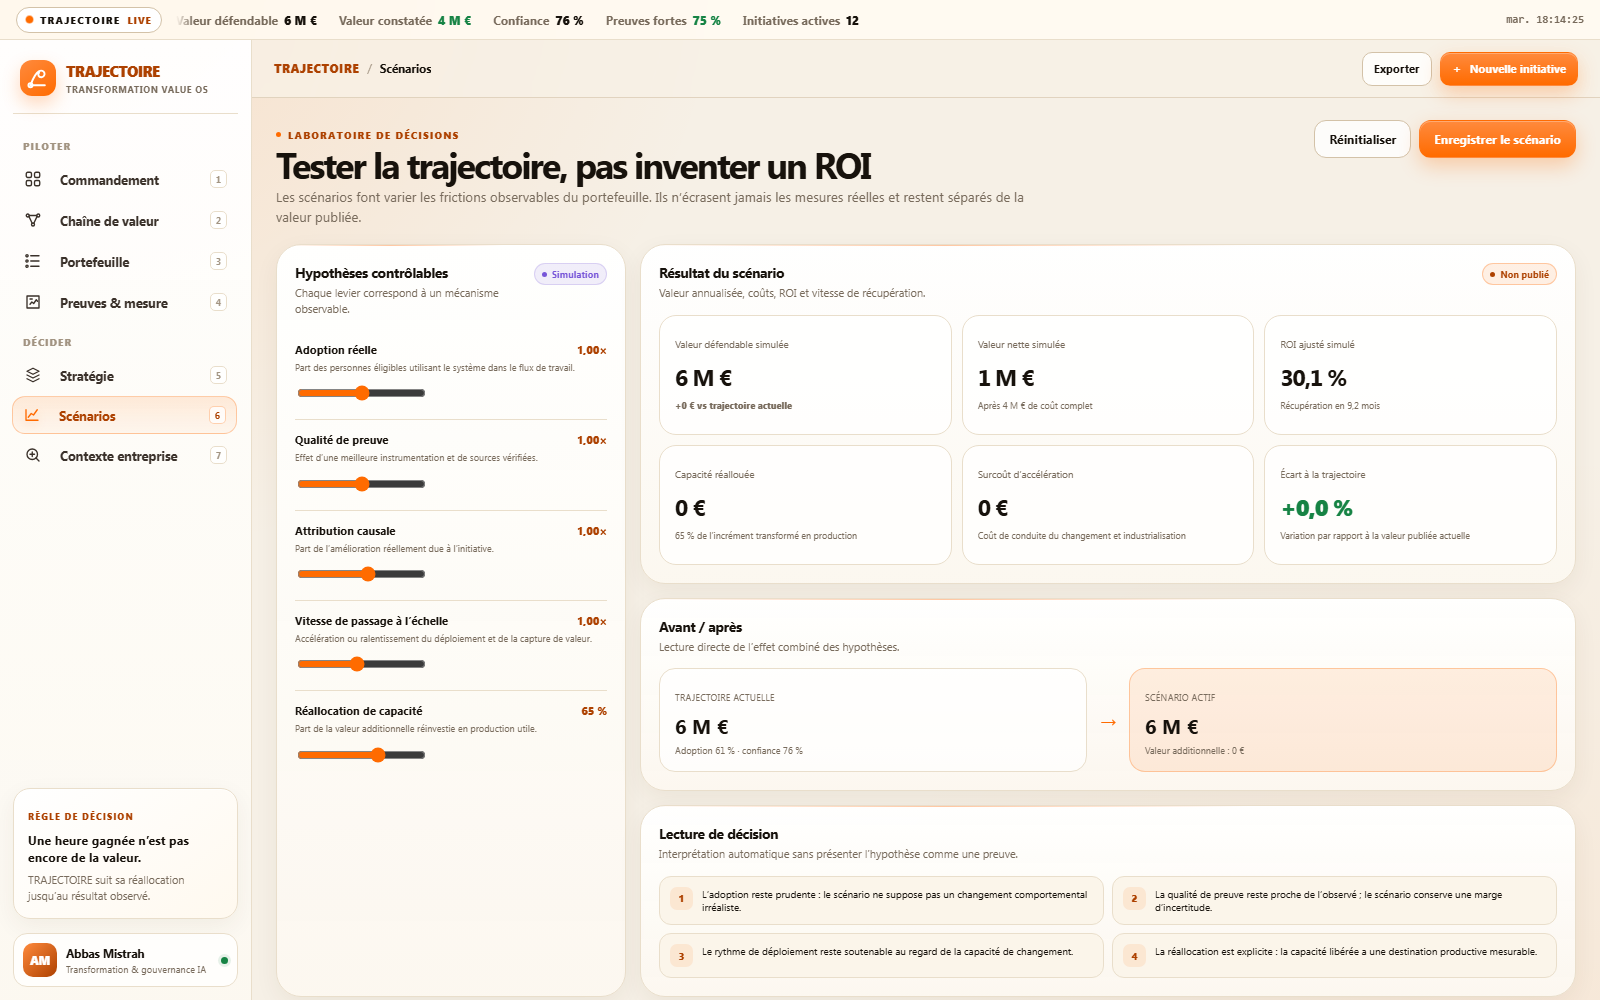
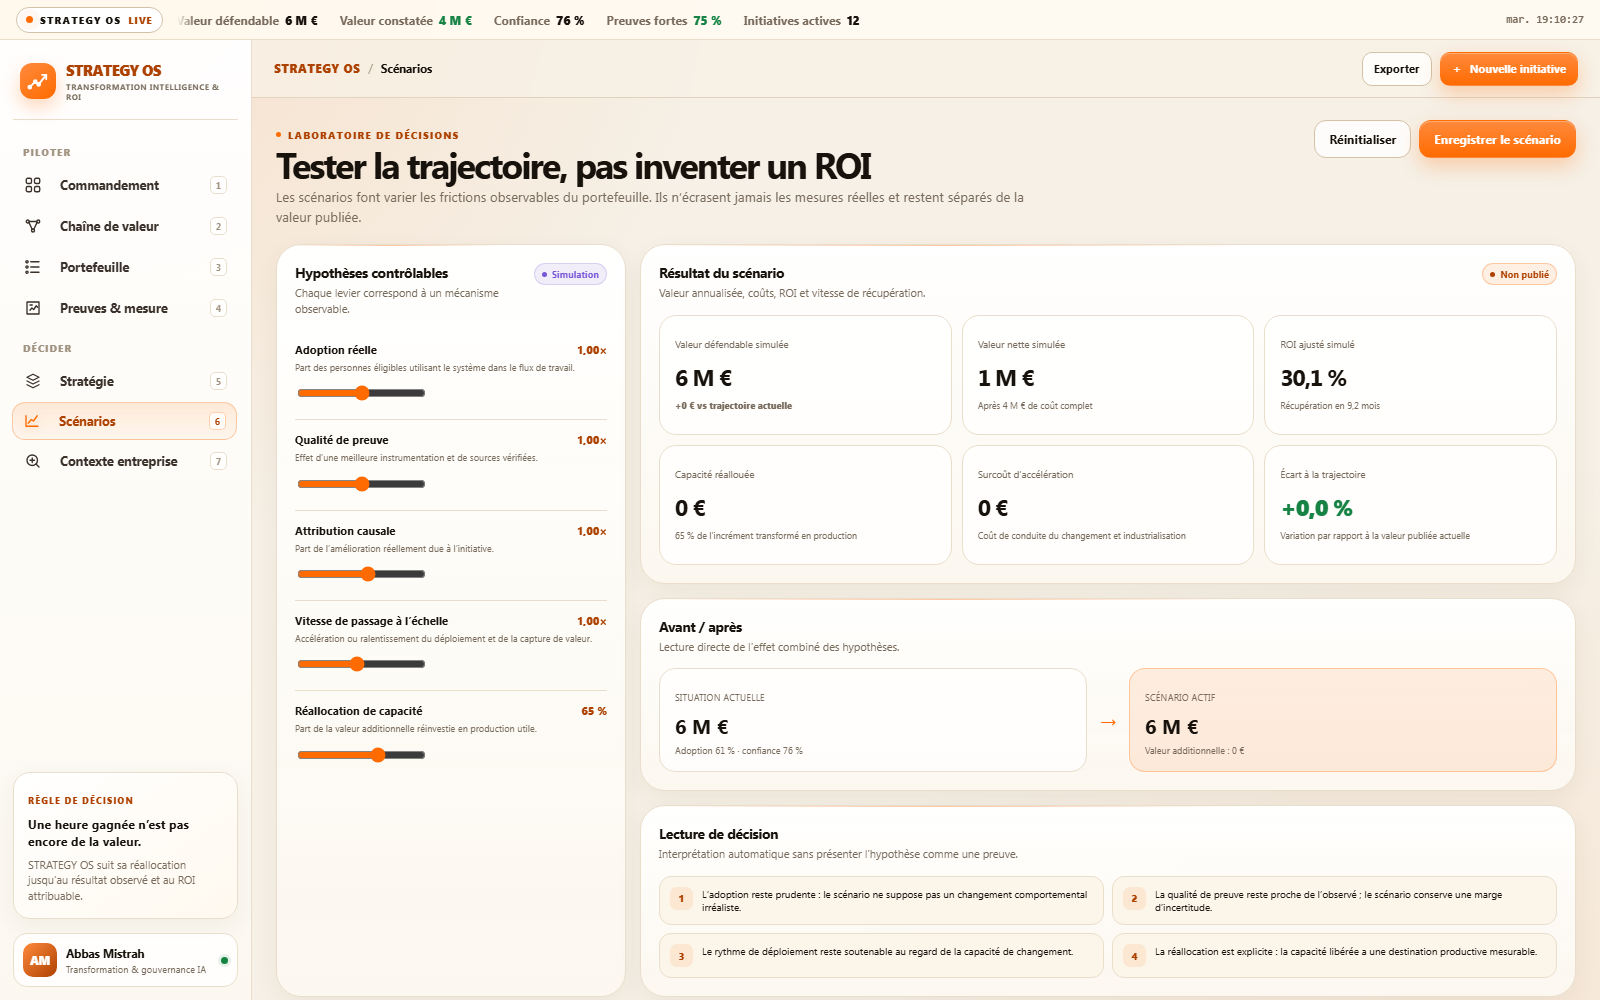
feat: rebrand product as Strategy OS

diff --git a/public/app.js b/public/app.js
@@ -161,9 +161,9 @@ function renderCommand() {
   const angle = Math.max(12, score * 3.6);
 
   return `${pageHead(
-    'Centre de commandement',
-    'La valeur, de l’effort à la preuve',
-    'Une vue unique des moyens engagés, de leur transformation et de l’impact réellement attribuable à l’entreprise.',
+    'Strategy Command',
+    'From Strategy to Proof of Value',
+    'Design the right transformation strategy. Track execution. Measure impact. Attribute value. Prove ROI.',
     `<button class="button ghost" data-action="navigate" data-view="flows">Voir la chaîne complète →</button><button class="button primary" data-action="new-initiative">＋ Instrumenter une initiative</button>`
   )}
   <section class="hero-grid">
@@ -332,7 +332,7 @@ function renderEvidence() {
     <article class="panel kpi-card"><div class="kpi-label"><span>Valeur constatée</span><i></i></div><strong class="kpi-value">${currency(totals.realized_value, true)}</strong><div class="kpi-foot"><span>${percent(totals.realized_value/Math.max(1,totals.risk_adjusted_value)*100)} du défendable</span><span>plafonnée</span></div></article>
   </section>
   <section class="dashboard-grid">
-    <article class="panel span-12"><div class="panel-head"><div><h3>Échelle de preuve TRAJECTOIRE</h3><p>Le niveau 3 autorise un passage contrôlé à l’échelle ; le niveau 4 autorise une communication externe.</p></div></div>
+    <article class="panel span-12"><div class="panel-head"><div><h3>Échelle de preuve STRATEGY OS</h3><p>Le niveau 3 autorise un passage contrôlé à l’échelle ; le niveau 4 autorise une communication externe.</p></div></div>
       <div class="evidence-levels">${levels.map(item => `<div class="evidence-level ${item.level >= 3 ? 'active' : ''}"><span>NIVEAU ${item.level} · ${item.count} INIT.</span><strong>${item.label}</strong><p>${item.description}</p></div>`).join('')}</div>
     </article>
     <article class="panel span-7"><div class="panel-head"><div><h3>Dernières mesures</h3><p>Valeurs rapprochées des baselines et des cibles déclarées.</p></div></div><div class="evidence-list">
@@ -437,7 +437,7 @@ function renderScenarios() {
         </div>
       </article>
       <article class="panel"><div class="panel-head"><div><h3>Avant / après</h3><p>Lecture directe de l’effet combiné des hypothèses.</p></div></div>
-        <div class="scenario-compare"><div class="compare-state"><span>TRAJECTOIRE ACTUELLE</span><strong>${currency(metrics.baseline,true)}</strong><p>Adoption ${percent(totals.adoption)} · confiance ${percent(totals.confidence)}</p></div><div class="compare-arrow">→</div><div class="compare-state highlight"><span>SCÉNARIO ACTIF</span><strong>${currency(metrics.value,true)}</strong><p>${metrics.delta >= 0 ? 'Valeur additionnelle' : 'Valeur à risque'} : ${currency(Math.abs(metrics.delta),true)}</p></div></div>
+        <div class="scenario-compare"><div class="compare-state"><span>SITUATION ACTUELLE</span><strong>${currency(metrics.baseline,true)}</strong><p>Adoption ${percent(totals.adoption)} · confiance ${percent(totals.confidence)}</p></div><div class="compare-arrow">→</div><div class="compare-state highlight"><span>SCÉNARIO ACTIF</span><strong>${currency(metrics.value,true)}</strong><p>${metrics.delta >= 0 ? 'Valeur additionnelle' : 'Valeur à risque'} : ${currency(Math.abs(metrics.delta),true)}</p></div></div>
       </article>
       <article class="panel"><div class="panel-head"><div><h3>Lecture de décision</h3><p>Interprétation automatique sans présenter l’hypothèse comme une preuve.</p></div></div>
         <div class="decision-rules"><div class="decision-rule"><i>1</i><span>${app.scenario.adoption > 1.1 ? 'Le principal levier est l’adoption : financez le changement avant d’ajouter de nouveaux cas d’usage.' : 'L’adoption reste prudente : le scénario ne suppose pas un changement comportemental irréaliste.'}</span></div><div class="decision-rule"><i>2</i><span>${app.scenario.confidence > 1.1 ? 'La hausse de valeur dépend d’une meilleure preuve : budgétez l’instrumentation et la vérification.' : 'La qualité de preuve reste proche de l’observé ; le scénario conserve une marge d’incertitude.'}</span></div><div class="decision-rule"><i>3</i><span>${app.scenario.speed > 1.15 ? `L’accélération ajoute ${currency(metrics.extraCost,true)} de coût : exigez des jalons de sortie explicites.` : 'Le rythme de déploiement reste soutenable au regard de la capacité de changement.'}</span></div><div class="decision-rule"><i>4</i><span>${app.scenario.reinvestment < .6 ? 'Trop peu de capacité est réallouée : une partie des gains restera invisible dans le compte de résultat.' : 'La réallocation est explicite : la capacité libérée a une destination productive mesurable.'}</span></div></div>
@@ -485,7 +485,7 @@ function renderCurrentView() {
   requestAnimationFrame(() => view.classList.add('view-enter'));
   $('#currentViewLabel').textContent = viewLabels[app.view];
   $$('.nav-item').forEach(button => button.classList.toggle('active', button.dataset.view === app.view));
-  document.title = `${viewLabels[app.view]} · TRAJECTOIRE`;
+  document.title = `${viewLabels[app.view]} · STRATEGY OS`;
   renderSignals();
   bindViewInputs();
 }
@@ -590,7 +590,7 @@ function openEvidence(id) {
 }
 
 function exportModal() {
-  openModal(modalShell('Exporter TRAJECTOIRE', 'Données locales, portables et auditables.', `<div class="grid cols-2"><a class="panel interactive" href="/api/export?format=json" download><div class="panel-head"><div><h3>Export complet JSON</h3><p>Profil, portefeuille, mesures, preuves, stratégie et journal.</p></div><span class="badge blue">.json</span></div><strong style="font-size:1.4rem">Données source</strong></a><a class="panel interactive" href="/api/export?format=csv" download><div class="panel-head"><div><h3>Portefeuille CSV</h3><p>Une ligne par initiative avec les indicateurs calculés.</p></div><span class="badge green">.csv</span></div><strong style="font-size:1.4rem">Analyse tabulaire</strong></a></div><p style="margin:14px 0 0;color:var(--muted);font-size:.64rem;line-height:1.5">Aucune donnée n’est envoyée à un service externe. Les exports sont générés directement depuis la base SQLite locale.</p>`, `<button class="button ghost" data-action="close-modal">Fermer</button>`));
+  openModal(modalShell('Exporter STRATEGY OS', 'Données locales, portables et auditables.', `<div class="grid cols-2"><a class="panel interactive" href="/api/export?format=json" download><div class="panel-head"><div><h3>Export complet JSON</h3><p>Profil, portefeuille, mesures, preuves, stratégie et journal.</p></div><span class="badge blue">.json</span></div><strong style="font-size:1.4rem">Données source</strong></a><a class="panel interactive" href="/api/export?format=csv" download><div class="panel-head"><div><h3>Portefeuille CSV</h3><p>Une ligne par initiative avec les indicateurs calculés.</p></div><span class="badge green">.csv</span></div><strong style="font-size:1.4rem">Analyse tabulaire</strong></a></div><p style="margin:14px 0 0;color:var(--muted);font-size:.64rem;line-height:1.5">Aucune donnée n’est envoyée à un service externe. Les exports sont générés directement depuis la base SQLite locale.</p>`, `<button class="button ghost" data-action="close-modal">Fermer</button>`));
 }
 
 function quickMeasure() {
@@ -747,7 +747,7 @@ async function init() {
     navigate(initial, false);
     if (location.hash.includes('action=new')) openNewInitiative();
   } catch (error) {
-    $('#view').innerHTML = `<div class="empty-state"><div><i>!</i><h3>Impossible de charger TRAJECTOIRE</h3><p>${escapeHtml(error.message)}</p><button class="button primary" onclick="location.reload()">Réessayer</button></div></div>`;
+    $('#view').innerHTML = `<div class="empty-state"><div><i>!</i><h3>Impossible de charger STRATEGY OS</h3><p>${escapeHtml(error.message)}</p><button class="button primary" onclick="location.reload()">Réessayer</button></div></div>`;
   }
 }
 

diff --git a/public/index.html b/public/index.html
@@ -4,8 +4,8 @@
   <meta charset="utf-8">
   <meta name="viewport" content="width=device-width, initial-scale=1, viewport-fit=cover">
   <meta name="theme-color" content="#ff6b00">
-  <meta name="description" content="TRAJECTOIRE relie chaque effort de transformation à un résultat observable et à une valeur d’entreprise défendable.">
-  <title>TRAJECTOIRE · Transformation Value OS</title>
+  <meta name="description" content="STRATEGY OS relie stratégie de transformation, exécution, impact, valeur attribuable et ROI défendable.">
+  <title>STRATEGY OS · Transformation Intelligence & ROI</title>
   <link rel="manifest" href="/manifest.webmanifest">
   <link rel="icon" href="/icons/icon.svg" type="image/svg+xml">
   <link rel="stylesheet" href="/styles.css">
@@ -14,7 +14,7 @@
   <header class="signal-bar" aria-label="État du portefeuille">
     <button class="live-mark" data-action="navigate" data-view="command" aria-label="Ouvrir le centre de commandement">
       <span class="live-dot"></span>
-      <span>TRAJECTOIRE</span>
+      <span>STRATEGY OS</span>
       <strong>LIVE</strong>
     </button>
     <div class="signal-stream" id="signalStream" aria-live="polite"></div>
@@ -24,11 +24,11 @@
   <div class="app-shell">
     <aside class="sidebar" id="sidebar">
       <div class="brand-block">
-        <a class="brand" href="#command" data-action="navigate" data-view="command" aria-label="TRAJECTOIRE, accueil">
+        <a class="brand" href="#command" data-action="navigate" data-view="command" aria-label="STRATEGY OS, accueil">
           <span class="brand-symbol" aria-hidden="true">
-            <svg viewBox="0 0 38 38"><path d="M8 29.5C10.6 23 13.9 13.2 20.2 9.3c3.7-2.3 7.4-.5 8.2 2.4.8 2.8-1.1 5.8-4.3 6.1-3.9.4-6.3-4-3.5-6.5"/><circle cx="8" cy="29.5" r="3"/><path d="M8 29.5h21"/></svg>
+            <svg viewBox="0 0 38 38"><path d="M7 28l8-8 5 4 11-14"/><path d="M25 10h6v6"/><circle cx="7" cy="28" r="2"/><circle cx="15" cy="20" r="2"/><circle cx="20" cy="24" r="2"/></svg>
           </span>
-          <span><b>TRAJECTOIRE</b><small>Transformation Value OS</small></span>
+          <span><b>STRATEGY OS</b><small>Transformation Intelligence &amp; ROI</small></span>
         </a>
         <button class="icon-button mobile-only" id="closeSidebar" aria-label="Fermer la navigation">×</button>
       </div>
@@ -71,7 +71,7 @@
       <div class="principle-card">
         <span class="mini-label">RÈGLE DE DÉCISION</span>
         <strong>Une heure gagnée n’est pas encore de la valeur.</strong>
-        <p>TRAJECTOIRE suit sa réallocation jusqu’au résultat observé.</p>
+        <p>STRATEGY OS suit sa réallocation jusqu’au résultat observé et au ROI attribuable.</p>
       </div>
       <div class="profile-chip">
         <div class="avatar">AM</div>
@@ -83,7 +83,7 @@
     <section class="workspace">
       <header class="workspace-header">
         <button class="icon-button mobile-only" id="openSidebar" aria-label="Ouvrir la navigation">☰</button>
-        <div class="breadcrumb"><span>TRAJECTOIRE</span><i>/</i><strong id="currentViewLabel">Commandement</strong></div>
+        <div class="breadcrumb"><span>STRATEGY OS</span><i>/</i><strong id="currentViewLabel">Commandement</strong></div>
         <div class="workspace-actions">
           <button class="button ghost compact" data-action="export"><span>Exporter</span></button>
           <button class="button primary compact" data-action="new-initiative"><span>＋</span> Nouvelle initiative</button>

diff --git a/server.js b/server.js
@@ -99,7 +99,7 @@ function initiativesCsv(state) {
 async function handleApi(request, response, url) {
   const pathname = url.pathname;
   if (request.method === 'GET' && pathname === '/api/health') {
-    return sendJson(response, 200, { ok: true, service: 'TRAJECTOIRE', database: path.basename(databasePath), time: new Date().toISOString() });
+    return sendJson(response, 200, { ok: true, service: 'STRATEGY OS', database: path.basename(databasePath), time: new Date().toISOString() });
   }
   if (request.method === 'GET' && pathname === '/api/state') {
     return sendJson(response, 200, fullState());
@@ -108,11 +108,11 @@ async function handleApi(request, response, url) {
     const state = fullState();
     if (url.searchParams.get('format') === 'csv') {
       return sendText(response, 200, initiativesCsv(state), 'text/csv; charset=utf-8', {
-        'Content-Disposition': 'attachment; filename="trajectoire-portfolio.csv"'
+        'Content-Disposition': 'attachment; filename="strategy-os-portfolio.csv"'
       });
     }
     return sendText(response, 200, JSON.stringify(state, null, 2), 'application/json; charset=utf-8', {
-      'Content-Disposition': 'attachment; filename="trajectoire-export.json"'
+      'Content-Disposition': 'attachment; filename="strategy-os-export.json"'
     });
   }
   if (request.method === 'POST' && pathname === '/api/profile') {
@@ -197,7 +197,7 @@ const server = http.createServer(async (request, response) => {
 });
 
 server.listen(port, host, () => {
-  console.log(`TRAJECTOIRE · Transformation Value OS`);
+  console.log(`STRATEGY OS · Transformation Intelligence & ROI`);
   console.log(`http://${host}:${port}`);
   console.log(`SQLite: ${databasePath}`);
 });

diff --git a/public/styles.css b/public/styles.css
@@ -144,7 +144,7 @@ svg { display: block; }
 }
 .brand-symbol svg { width: 26px; height: 26px; fill: none; stroke: #fff; stroke-width: 2.8; stroke-linecap: round; stroke-linejoin: round; }
 .brand b { display: block; color: var(--orange-deep); font-size: .92rem; font-weight: 900; letter-spacing: -.035em; }
-.brand small { display: block; margin-top: 2px; color: var(--muted); font-size: .58rem; font-weight: 750; letter-spacing: .05em; text-transform: uppercase; }
+.brand small { display: block; max-width: 164px; margin-top: 2px; color: var(--muted); font-size: .52rem; font-weight: 750; line-height: 1.2; letter-spacing: .035em; text-transform: uppercase; }
 
 .primary-nav { display: flex; flex-direction: column; gap: 3px; }
 .nav-section { margin: 12px 10px 5px; color: var(--soft); font-size: .6rem; font-weight: 850; letter-spacing: .12em; text-transform: uppercase; }

diff --git a/src/database.js b/src/database.js
@@ -6,8 +6,8 @@ const { DatabaseSync } = require('node:sqlite');
 
 const projectRoot = path.resolve(__dirname, '..');
 const dataDirectory = path.join(projectRoot, 'data');
-const databasePath = process.env.TRAJECTOIRE_DB || path.join(dataDirectory, 'trajectoire.db');
 fs.mkdirSync(dataDirectory, { recursive: true });
+const databasePath = process.env.STRATEGY_OS_DB || path.join(dataDirectory, 'strategy-os.db');
 
 const db = new DatabaseSync(databasePath);
 db.exec(fs.readFileSync(path.join(__dirname, 'schema.sql'), 'utf8'));

diff --git a/public/service-worker.js b/public/service-worker.js
@@ -1,4 +1,4 @@
-const CACHE = 'trajectoire-v1';
+const CACHE = 'strategy-os-v2';
 const CORE = ['/', '/index.html', '/styles.css', '/app.js', '/manifest.webmanifest', '/icons/icon.svg'];
 
 self.addEventListener('install', event => {

diff --git a/README.md b/README.md
@@ -1,12 +1,16 @@
-# TRAJECTOIRE
+# STRATEGY OS
 
-**Transformation Value OS — du temps investi à la valeur prouvée.**
+### Transformation Intelligence & ROI
 
-TRAJECTOIRE est un logiciel local-first de pilotage de la transformation. Il relie les ressources engagées, les changements de travail, les résultats observés et la valeur réellement attribuable à l’entreprise.
+**From Strategy to Proof of Value**
 
-Ce n’est pas un calculateur de ROI. Un calculateur transforme des hypothèses en un chiffre. TRAJECTOIRE transforme un portefeuille d’initiatives en un système de décisions : chaque valeur publiée conserve sa baseline, sa source, son niveau de preuve, son taux d’adoption, son attribution et son coût complet.
+*Design the right transformation strategy. Track execution. Measure impact. Attribute value. Prove ROI.*
 
-![Centre de commandement TRAJECTOIRE](docs/screenshots/command-center.png)
+STRATEGY OS est un logiciel local-first de pilotage stratégique de la transformation. Il relie le contexte de l’entreprise, les ressources engagées, l’exécution, les résultats observés, la valeur attribuable et le ROI réellement défendable.
+
+Ce n’est pas un simple calculateur de ROI. Un calculateur transforme des hypothèses en un chiffre. STRATEGY OS transforme un portefeuille d’initiatives en système de décisions : chaque valeur publiée conserve sa baseline, sa source, son niveau de preuve, son taux d’adoption, son attribution et son coût complet.
+
+![Strategy Command — STRATEGY OS](docs/screenshots/command-center.png)
 
 ## Ce que le produit résout
 
@@ -17,7 +21,7 @@ Les programmes de transformation savent généralement compter les projets, les 
 3. Quel résultat observable a changé ?
 4. Quelle part de cette amélioration peut raisonnablement être attribuée à l’initiative ?
 
-TRAJECTOIRE installe cette continuité de preuve dans un seul produit.
+STRATEGY OS installe cette continuité de décision et de preuve dans un seul produit.
 
 ## Sept surfaces de décision
 
@@ -84,10 +88,10 @@ npm start
 
 Puis ouvrir [http://127.0.0.1:4310](http://127.0.0.1:4310).
 
-Sous Windows, `launch-trajectoire.ps1` démarre le serveur en arrière-plan et ouvre une fenêtre Chrome dédiée :
+Sous Windows, `launch-strategy-os.ps1` démarre le serveur en arrière-plan et ouvre une fenêtre Chrome dédiée :
 
 ```powershell
-powershell -ExecutionPolicy Bypass -File .\launch-trajectoire.ps1
+powershell -ExecutionPolicy Bypass -File .\launch-strategy-os.ps1
 ```
 
 Pour créer le raccourci Bureau :
@@ -132,14 +136,14 @@ Voir [docs/ARCHITECTURE.md](docs/ARCHITECTURE.md) pour le schéma de données, l
 
 ## Données et confidentialité
 
-- La base est enregistrée dans `data/trajectoire.db` et exclue de Git.
+- La base est enregistrée dans `data/strategy-os.db` et exclue de Git.
 - Une nouvelle base reçoit uniquement des données de démonstration fictives.
 - Aucun secret, donnée réelle d’entreprise ou connecteur externe n’est inclus.
 - Le module de contexte n’invente aucune recherche : seules les sources explicitement enregistrées influencent la stratégie.
 
 ## Positionnement
 
-TRAJECTOIRE complète un cockpit d’adoption ou de delivery : il ne demande pas seulement « combien utilisent l’IA ? », mais « qu’est devenue la capacité créée, comment le savons-nous et quelle décision prenons-nous maintenant ? »
+STRATEGY OS complète un cockpit d’adoption ou de delivery : il ne demande pas seulement « combien utilisent l’IA ? », mais « qu’est devenue la capacité créée, comment le savons-nous, quel ROI pouvons-nous défendre et quelle décision prenons-nous maintenant ? »
 
 ---
 

diff --git a/docs/METHODOLOGY.md b/docs/METHODOLOGY.md
@@ -2,7 +2,7 @@
 
 ## 1. Principe directeur
 
-TRAJECTOIRE ne considère jamais un gain de temps comme une valeur finale. Une heure libérée devient une valeur uniquement lorsque sa destination est explicite et observée : production additionnelle, revenu, coût évité, qualité, expérience ou réduction de risque.
+STRATEGY OS ne considère jamais un gain de temps comme une valeur finale. Une heure libérée devient une valeur uniquement lorsque sa destination est explicite et observée : production additionnelle, revenu, coût évité, qualité, expérience ou réduction de risque.
 
 Le produit sépare donc cinq objets souvent mélangés :
 
@@ -76,7 +76,7 @@ Un ROI négatif sur un pilote n’est pas automatiquement un échec : il peut ac
 
 ## 6. Anti-double-comptage
 
-TRAJECTOIRE applique les règles suivantes :
+STRATEGY OS applique les règles suivantes :
 
 - une capacité libérée et son revenu aval ne sont pas additionnés si le revenu est la destination de cette même capacité ;
 - la même mesure ne doit avoir qu’un propriétaire économique ;

diff --git a/docs/ARCHITECTURE.md b/docs/ARCHITECTURE.md
@@ -1,4 +1,4 @@
-# Architecture technique
+# Architecture technique — STRATEGY OS
 
 ## Objectifs
 
